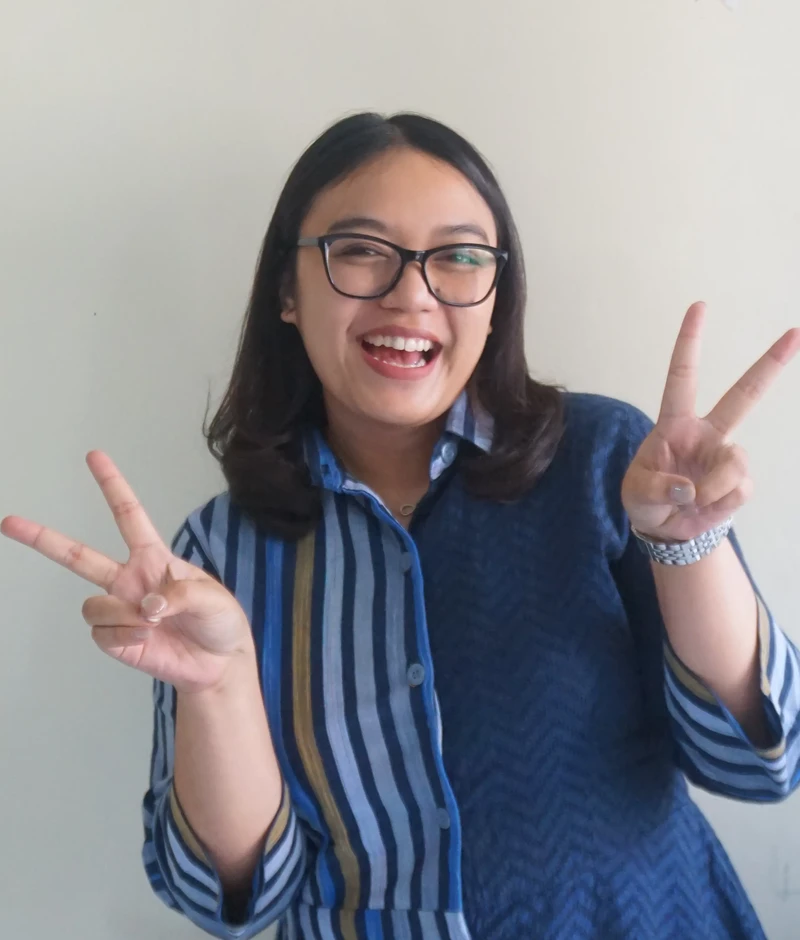
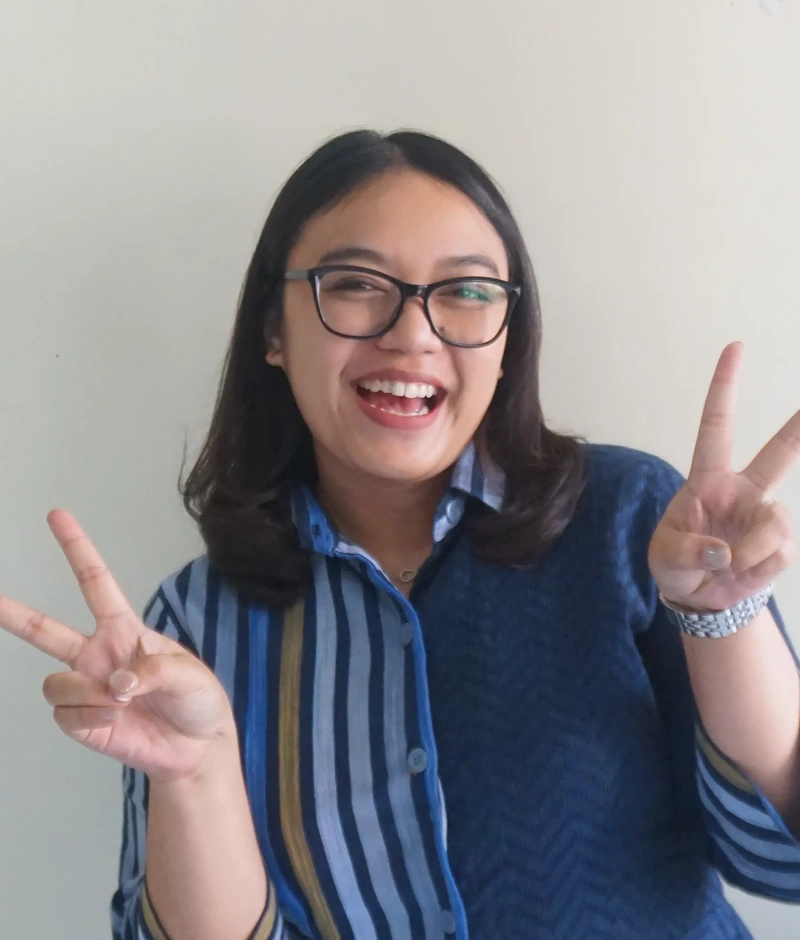
fix(gtk): terapkan zero-distortion aspect ratio guard dan kalibrasi framing ramping Pak Seto

diff --git a/docs/ACTIVITY_LOG.md b/docs/ACTIVITY_LOG.md
@@ -10,7 +10,7 @@ Setiap kali Admin menyetujui, menolak, atau menghapus prestasi melalui Bot Teleg
 ## 📊 RINGKASAN STATISTIK AKTIVITAS
 
 - **Total Prestasi Aktif di Website**: 7 Prestasi
-- **Total Riwayat Tercatat**: 25 Log Aktivitas
+- **Total Riwayat Tercatat**: 26 Log Aktivitas
 - **Status Server Produksi**: Online 24/7 (`sdlabubuntuserver` di UKSW Salatiga)
 - **Engine Otomasi**: Node.js Long-Polling Telegram Bot & PM2 Daemon (`sdlab-prestasi-bot`)
 - **Pembaruan Terakhir**: 29 September 2026
@@ -21,6 +21,7 @@ Setiap kali Admin menyetujui, menolak, atau menghapus prestasi melalui Bot Teleg
 
 | Waktu (WIB) | Aksi | ID | Nama Subjek / Entri | Ajang / Capaian | Kategori & Bidang | Aktor / Eksekutor | Keterangan & Masa Aktif |
 | :--- | :--- | :--- | :--- | :--- | :--- | :--- | :--- |
+| **2026-09-29 21:35 WIB** | `UPDATE_GTK` | **#-** | **Eliminasi Distorsi & Framing Ramping Pak Seto** (-) | Zero-Distortion Aspect Ratio Guard (800:940) & Slim Framing Pak Seto (*29 Foto 100% Alami*) | Kepegawaian GTK | Webmaster / Admin | Perbaikan aspek rasio eksak 800:940 mencegah foto tertekan/bentet (Bu Lanni, Pak Gani, Pak Yudha), serta pemotongan di atas lingkar pinggang Pak Seto agar tampil lebih ramping, tegap, dan proporsional. |
 | **2026-09-29 21:25 WIB** | `UPDATE_GTK` | **#-** | **Framing Medium Bust 29 Foto & Gelar Bu Deti** (-) | Kalibrasi Foto Mundur & Naikkan Gestur, Koreksi Gelar, dan Switch Formasi (*29 Foto Medium Bust*) | Kepegawaian GTK | Webmaster / Admin | Penerapan framing medium bust (mundur ~15-20% & naikkan badan), pose victory Bu Lanni utuh, buku Bu Dyah terlihat jelas, Pak Seto dinaikkan sejajar berambut, penambahan gelar Bu Deti (M.Pd.), nama lengkap Bu Maria Cristiana Yulianti Djari, dan switch figur ke-4 di Beranda. |
 | **2026-09-28 22:45 WIB** | `UPDATE_GTK` | **#-** | **Kuncian Lebar 100% & Struktur Jabatan 2 Baris** (-) | Redesain 2-Tier Role Box & Kuncian Lebar Card 100% Anti-Penyok (*29 Card Sempurna*) | Kepegawaian GTK | Webmaster / Admin | Pemberian width: 100% !important pada .staff mencegah card menyusut/melebar akibat panjang nama, pemisahan jabatan ke format 2 tingkat (.primary-role & .sub-role) tanpa karakter slash, dan pembaruan profil Pak Rah Seto Sumirat murni sebagai Wali Kelas. |
 | **2026-09-28 22:30 WIB** | `UPDATE_GTK` | **#-** | **Framing Lega 29 Foto & Kuncian 405px** (-) | Kalibrasi Relaxed Bust Portrait (Anti-Sempit) & Kuncian 405px (*29 Foto Kalibrasi Lega*) | Kepegawaian GTK | Webmaster / Admin | Pelegaan ruang udara atas (headroom 18-24%) dan rasio wajah 32.5% pada ke-29 foto sehingga tidak sempit/mepet, bahu dan dada seragam batik tampak utuh, dan kartu terkunci 405px seragam. |

diff --git a/docs/CHANGELOG.md b/docs/CHANGELOG.md
@@ -266,6 +266,19 @@ Format pencatatan perubahan berdasar prinsip [Keep a Changelog](https://keepacha
   - Di `teacher.html`: Bu Maria menempati posisi #4 dan Pak Ari menempati posisi #5 agar 4 kartu pertama konsisten antara Beranda dan profil GTK.
 - **Added**: Pencatatan riwayat audit log di `docs/ACTIVITY_LOG.md` dan `data/activity_log.json`.
 
+---
+
+### 26. TAHAP 22: ELIMINASI DISTORSI "BANTET" (ZERO-DISTORTION) & FRAMING RAMPING PAK SETO
+- **Fixed**: Mengatasi masalah foto tampak "bentek-bentek / ditekan / melebar" (terutama pada Bu Lanni, Pak Gani, dan Pak Yudha) dengan menerapkan *Zero-Distortion Aspect Ratio Guard*:
+  - Memperbaiki kalkulasi pemotongan batas gambar agar rasio lebar terhadap tinggi selalu terkunci eksak di **800:940 (0.8511)** sebelum di-resize.
+  - Menghilangkan kompresi horizontal 100%, sehingga seluruh proporsi wajah, leher, pipi, dan bahu tampil alami, proporsional, dan anggun.
+- **Changed**: Mengkalibrasi ulang foto **Pak Rah Seto Sumirat, S.Pd., M.Pd. (`seto.webp`)** dengan memfokuskan pemotongan setinggi dada atas (di atas lingkar pinggang/perut):
+  - Area perut tidak lagi terlihat di dalam bingkai kartu.
+  - Sosok beliau tampil jauh lebih ramping (*slim*), berwibawa, tegap, dan senyum ramahnya menjadi daya tarik utama.
+- **Changed**: Menjaga pose dua tangan *victory* Bu Lanni dan pose buku Bu Dyah tetap utuh dan jelas dengan proporsi tubuh yang 100% alami.
+- **Added**: Pencatatan riwayat audit log di `docs/ACTIVITY_LOG.md` dan `data/activity_log.json`.
+
+
 
 
 
